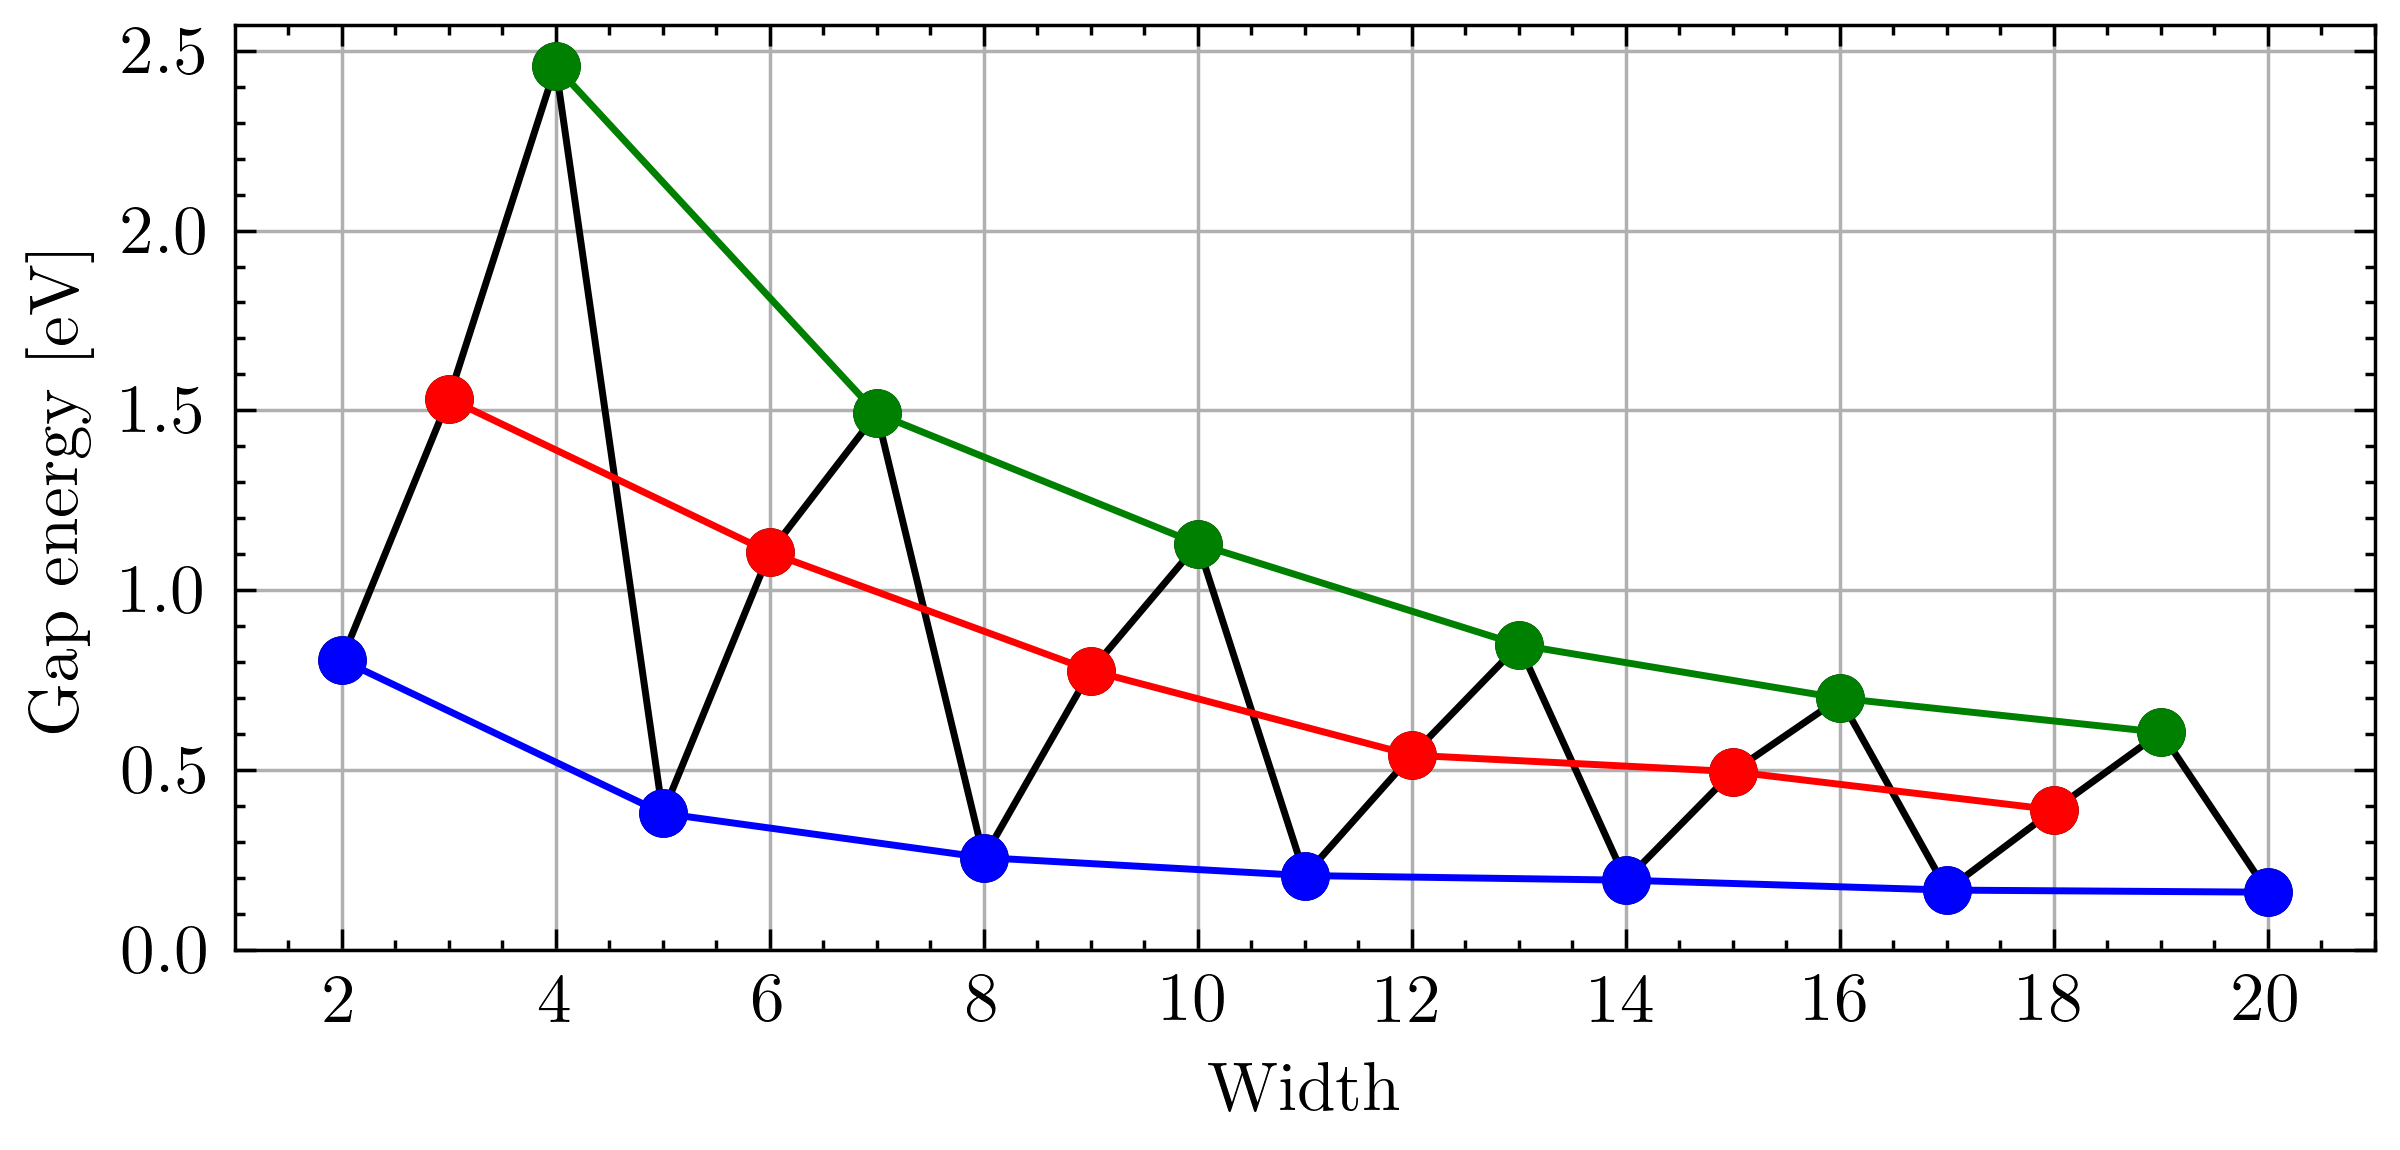
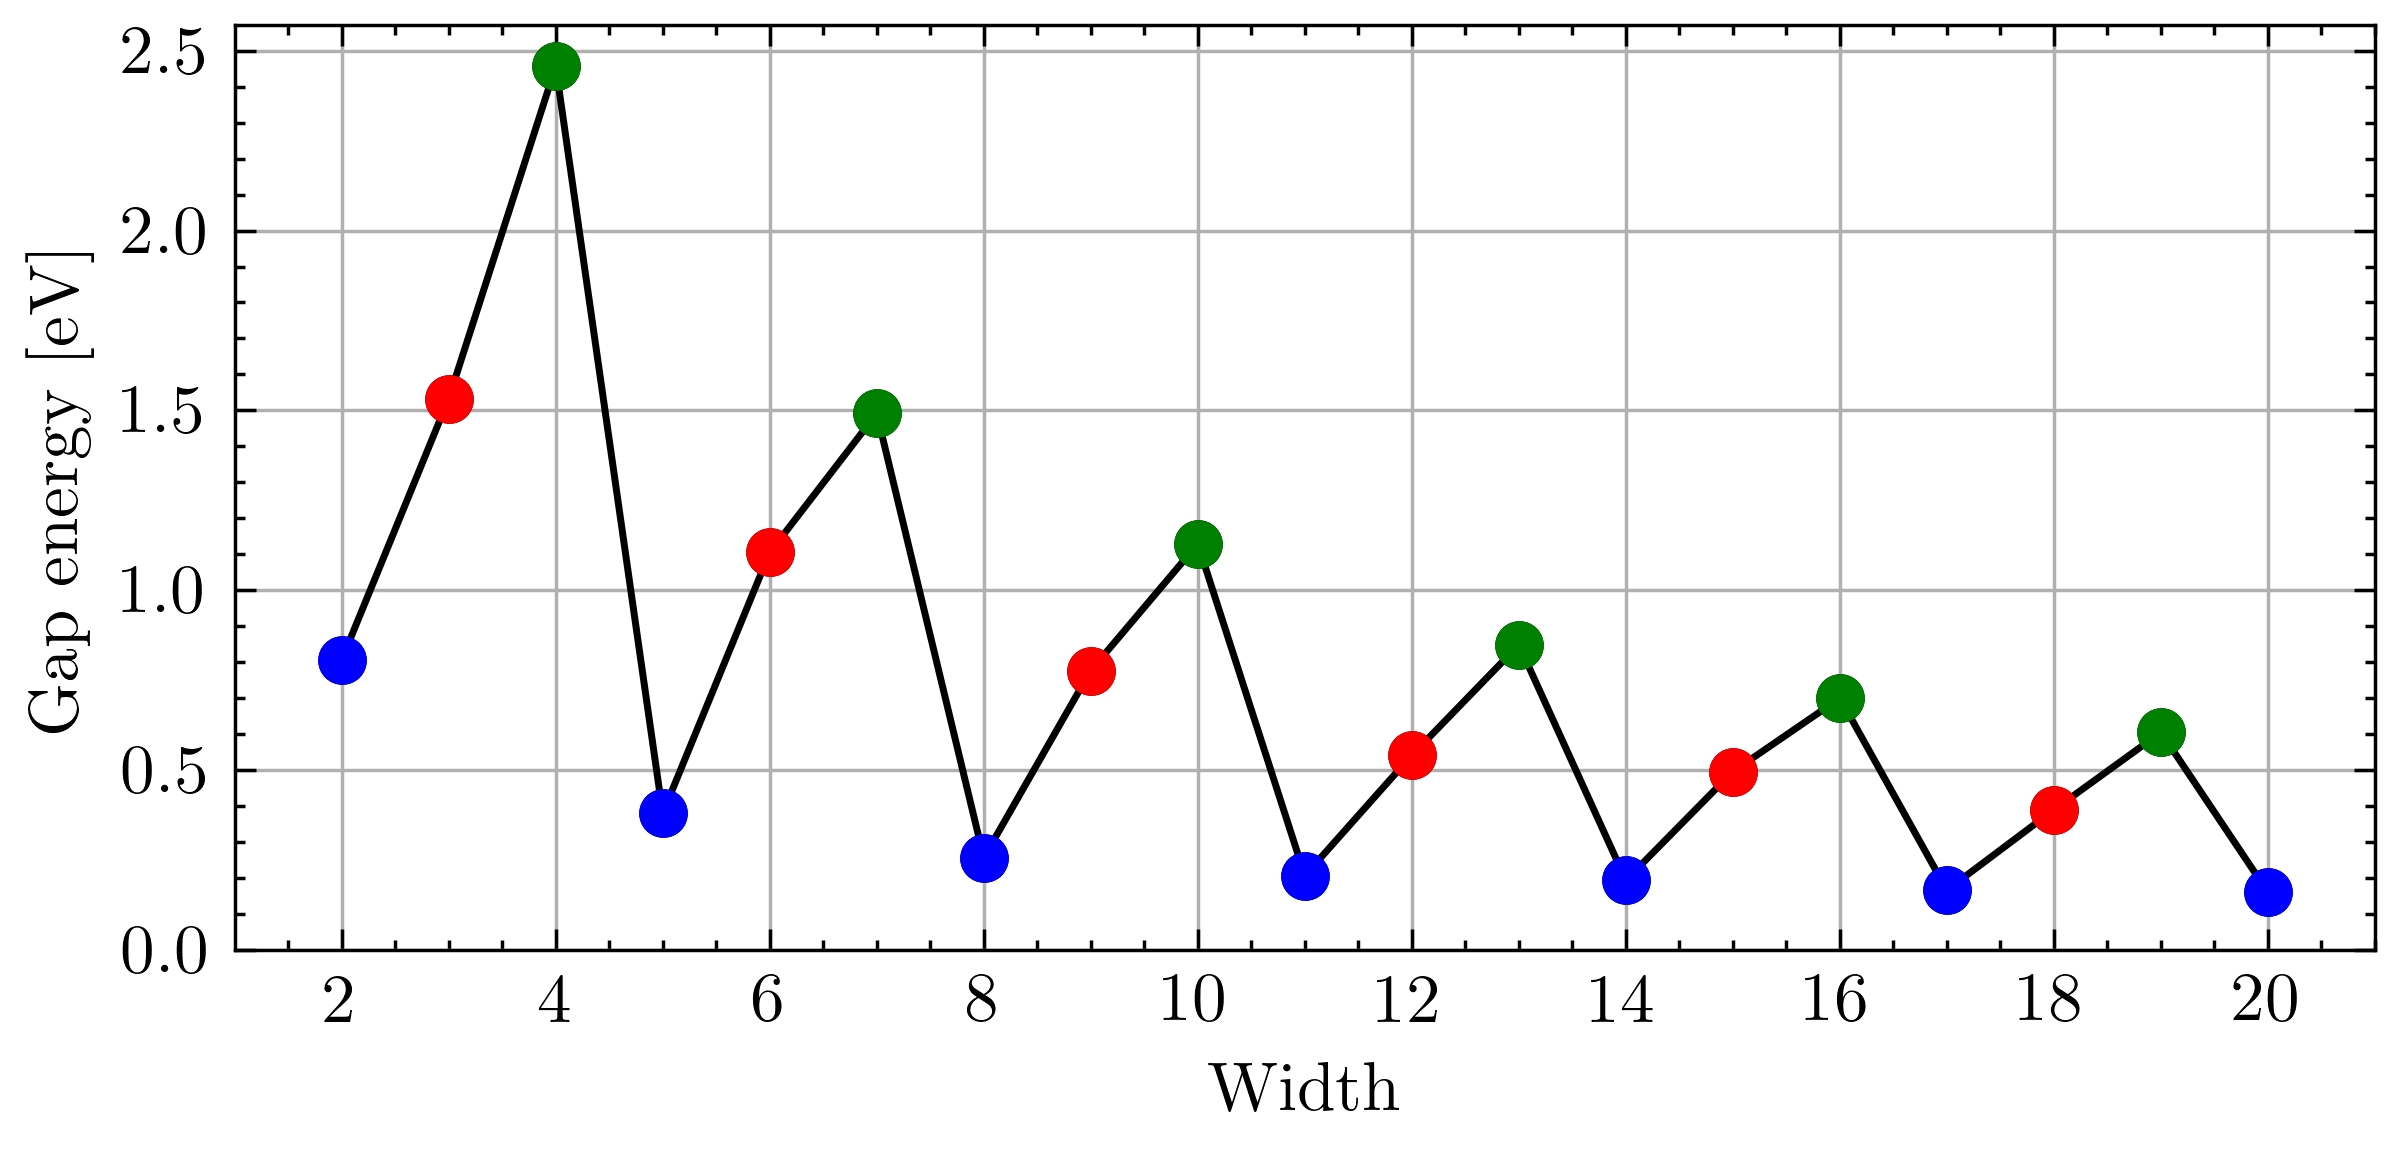
Final changes to the plotting

diff --git a/calculations/backbone_structure/plotting.py b/calculations/backbone_structure/plotting.py
@@ -24,9 +24,9 @@ w2, pre2, post2 = width[2::3], pre[2::3], post[2::3]
 fig, ax = plt.subplots(figsize=(5, 2.5))
 
 ax.plot(width, post, '-o', color='black')
-ax.plot(w0, post0, '-o', color='blue')
-ax.plot(w1, post1, '-o', color='red')
-ax.plot(w2, post2, '-o', color='green')
+ax.plot(w0, post0, 'o', color='blue')
+ax.plot(w1, post1, 'o', color='red')
+ax.plot(w2, post2, 'o', color='green')
 ax.set_xlim(1, 21)
 ax.set_ylim(bottom=0)
 ax.set_xticks(np.linspace(2, 20, 10, dtype=int))
